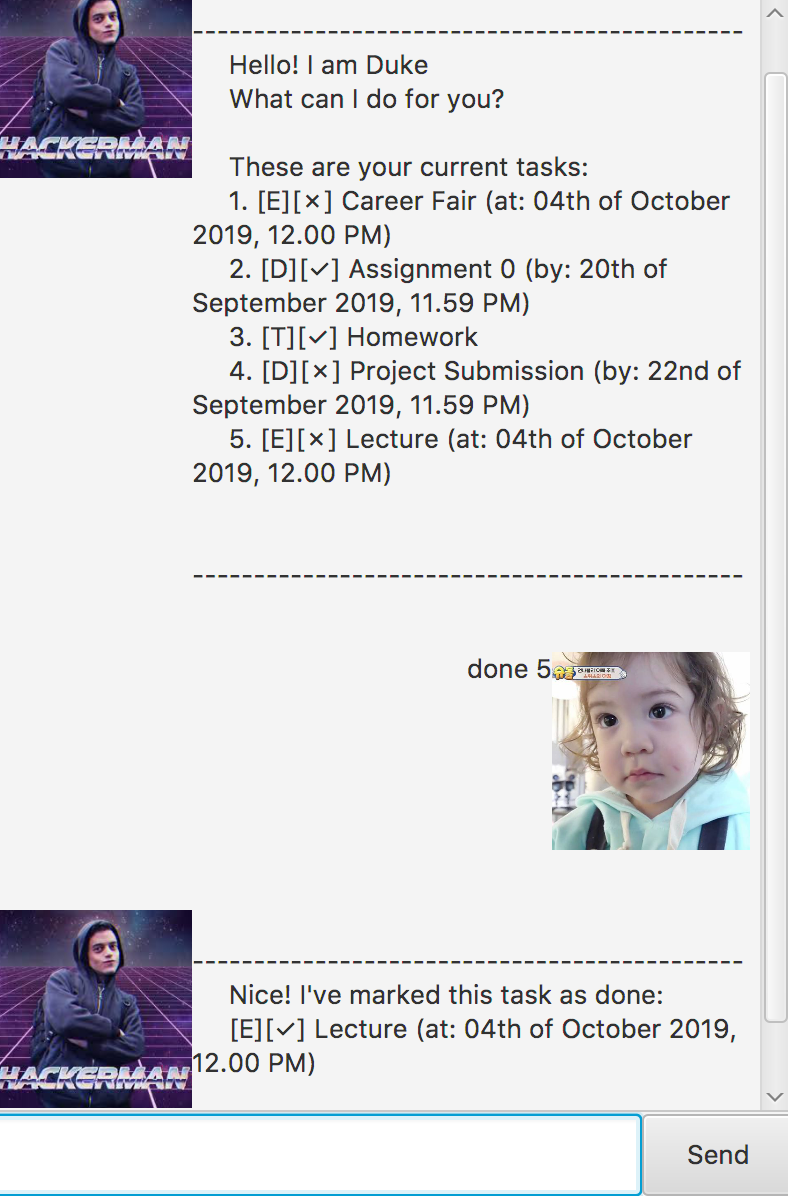
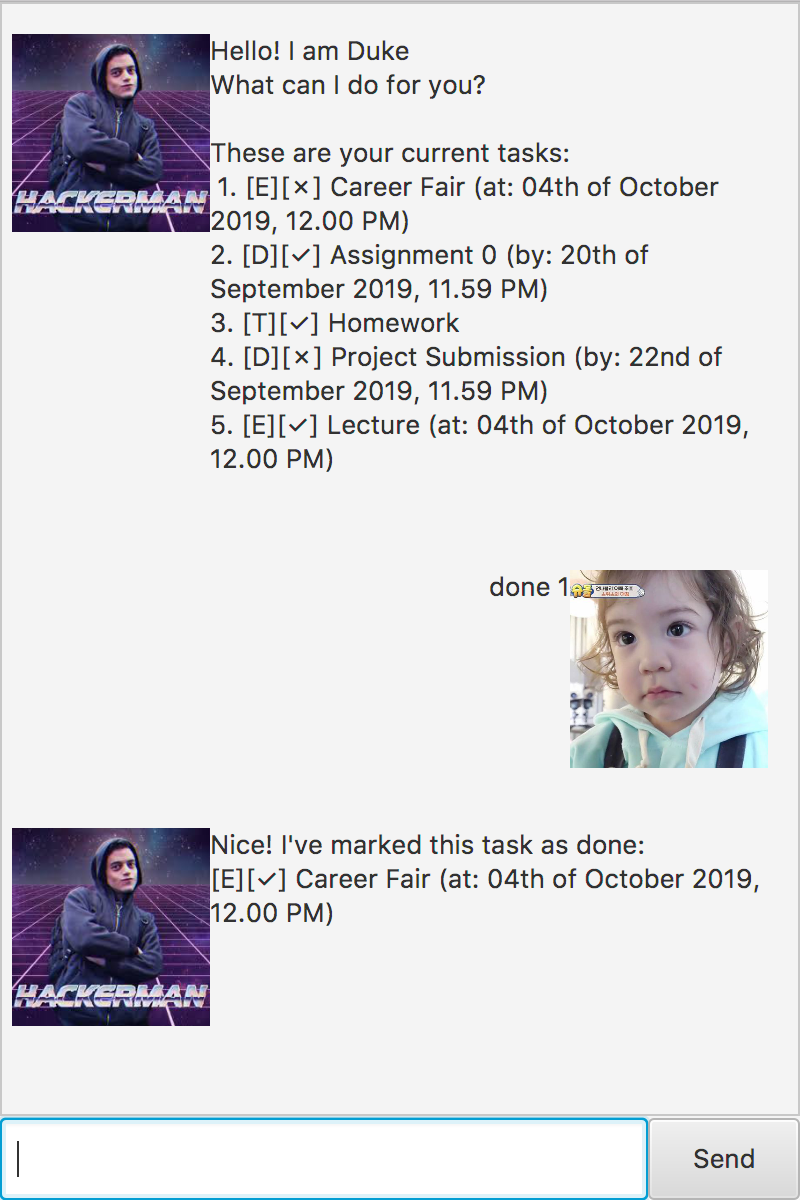
changed Ui.png

diff --git a/src/main/java/Ui.java b/src/main/java/Ui.java
@@ -94,11 +94,8 @@ public class Ui {
     }
 
     private void setResponse(String response) {
-        this.response = "    ---------------------------------------------\n"
-                +
-                "     " + response + "\n"
-                +
-                "    ---------------------------------------------";
+        this.response = response + "\n";
+
     }
 
     /**
@@ -110,9 +107,9 @@ public class Ui {
     public void setAddTaskResponse(Task task, int size) {
         setResponse("Got it. I've added this task:\n"
                 +
-                "       " + task + "\n"
+                task + "\n"
                 +
-                "     Now you have " + size + " tasks in the list.");
+                "Now you have " + size + " tasks in the list.");
     }
 
     /**
@@ -131,11 +128,11 @@ public class Ui {
                 +
                 clashedTasksStr
                 +
-                "    I've added this task:\n"
+                "I've added this task:\n"
                 +
-                "       " + task + "\n"
+                task + "\n"
                 +
-                "    Now you have " + size + " tasks in the list.");
+                "Now you have " + size + " tasks in the list.");
     }
 
     /**
@@ -154,8 +151,6 @@ public class Ui {
      */
     public void setDoneResponse(Task task) {
         setResponse("Nice! I've marked this task as done:\n"
-                +
-                "     "
                 +
                 task);
     }
@@ -205,9 +200,9 @@ public class Ui {
     public void setDeleteResponse(Task task, int size) {
         setResponse("Noted. I've removed this task:\n"
                 +
-                "     " + task + "\n"
+                task + "\n"
                 +
-                "     Now you have "
+                "Now you have "
                 +
                 size
                 +

diff --git a/src/main/java/Duke.java b/src/main/java/Duke.java
@@ -43,13 +43,11 @@ public class Duke {
     public String getWelcomeMessage() {
         ui.setWelcomeResponse("Hello! I am Duke\n"
                 +
-                "     What can I do for you?\n"
+                "What can I do for you?\n"
                 +
-                "     \n"
+                "\n"
                 +
-                "     These are your current tasks:\n "
-                +
-                "    "
+                "These are your current tasks:\n "
                 +
                 this.tasks.listTasks());
         return ui.getResponse();
@@ -62,7 +60,7 @@ public class Duke {
         Parser parser = new Parser();
         Ui.print("Hello! I am Duke\n"
                 +
-                "     What can I do for you?");
+                "What can I do for you?");
         this.tasks.listTasks();
         boolean isExit = false;
         while (!isExit) {

diff --git a/src/main/java/TaskList.java b/src/main/java/TaskList.java
@@ -15,7 +15,7 @@ public class TaskList implements Serializable {
         int size = this.tasks.size();
         StringBuilder listOfTask = new StringBuilder();
         for (int i = 0; i < size; i++) {
-            listOfTask.append(i + 1 + ". " + this.tasks.get(i) + "\n" + "     ");
+            listOfTask.append(i + 1 + ". " + this.tasks.get(i) + "\n");
         }
         return (listOfTask.toString());
 
